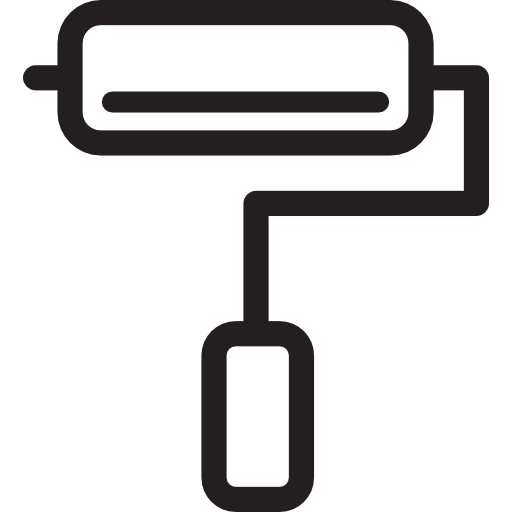
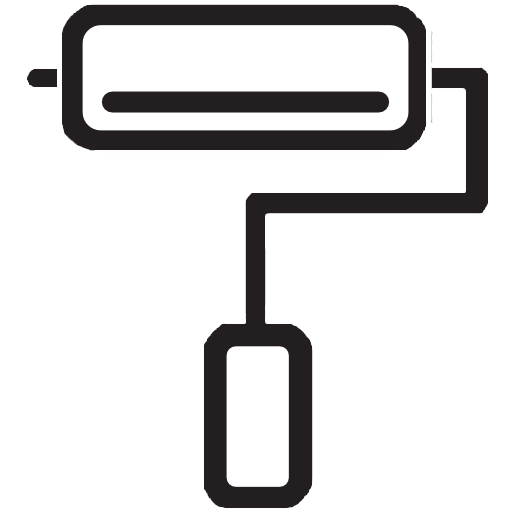
ok

diff --git a/src/main/java/br/upe/ui/TelaPrincipal.java b/src/main/java/br/upe/ui/TelaPrincipal.java
@@ -32,8 +32,8 @@ public class TelaPrincipal {
             controlador.exibirFinalizadas(selecionado);
         });
         String[] nomes = {"Light", "Dark", "Azul", "Verde", "Vermelho"};
-        Color[] coresFundo = {Color.decode("#FFFFFF"), Color.decode("#000000"), Color.decode("#1565C0"), Color.decode("#2E7D32"), Color.decode("#C62828")};
-        Color[] coresTexto = {Color.decode("#000000"), Color.decode("#4fe4ba"), Color.decode("#FFFFFF"), Color.decode("#FFFFFF"), Color.decode("#FFFFFF")};
+        Color[] coresFundo = {Color.decode("#FFFFFF"), Color.decode("#000000"), Color.decode("#93b3cd"), Color.decode("#5cd697"), Color.decode("#C62828")};
+        Color[] coresTexto = {Color.decode("#000000"), Color.decode("#4fe4ba"), Color.decode("#FFFFFF"), Color.decode("#FFFFFF"), Color.decode("#ac4343")};
 
         JComboBox<String> acoesEscolha = new JComboBox<>(nomes);
 
@@ -49,14 +49,15 @@ public class TelaPrincipal {
         java.net.URL url = getClass().getResource("/img.png");
         JButton btnTema;
         if (url != null) {
-            Image img = new ImageIcon(url).getImage().getScaledInstance(24, 24, Image.SCALE_SMOOTH);
+            Image img = new ImageIcon(url).getImage().getScaledInstance(30, 30, Image.SCALE_SMOOTH);
             btnTema = new JButton(new ImageIcon(img));
         } else {
             btnTema = new JButton("🎨");
         }
+
         btnTema.setToolTipText("Opções de tema");
         btnTema.setBorderPainted(false);
-        btnTema.setContentAreaFilled(true);
+        btnTema.setContentAreaFilled(false);
         btnTema.setFocusPainted(false);
 
         btnTema.addActionListener(e -> {
